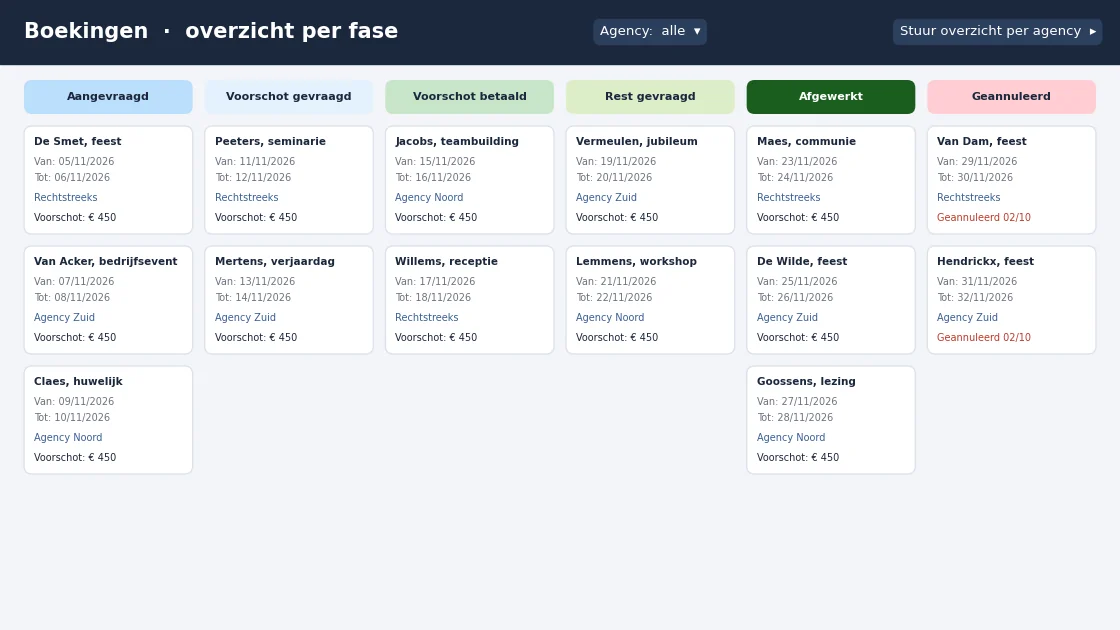
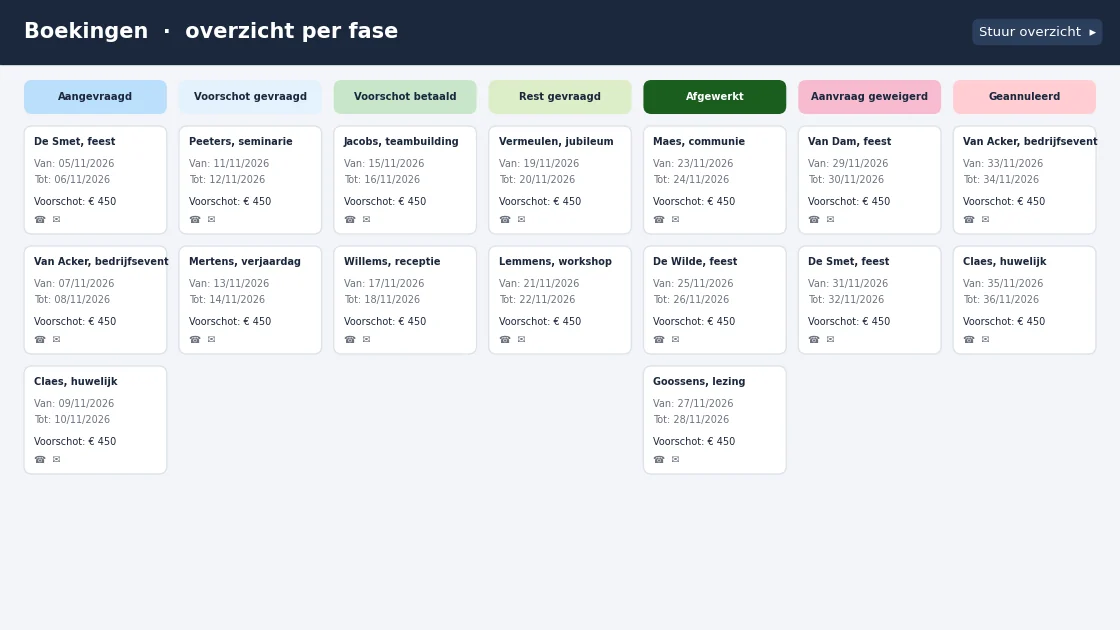
Add files via upload
finetuning

diff --git a/boekingssysteem-app.html b/boekingssysteem-app.html
@@ -175,7 +175,7 @@
 <section class="alt">
   <div class="inner">
     <h2>Wat de app doet</h2>
-    <p>Eén kalender waarin elke boeking een fase heeft: aangevraagd, voorschot gevraagd, voorschot betaald, rest gevraagd, afgewerkt, geweigerd, geannuleerd. Vanuit de boeking zelf maakt u de voorschot- en eindfactuur, en de app houdt bij wat betaald is. Een statusbord toont alle boekingen per fase, ook de geannuleerde. De mails naar de klant vertrekken vanuit de app, en per agency kan een overzicht verstuurd worden van wie wanneer komt.</p>
+    <p>Eén kalender waarin elke boeking een fase heeft: aangevraagd, voorschot gevraagd, voorschot betaald, rest gevraagd, afgewerkt, aanvraag geweigerd, geannuleerd. Vanuit de boeking zelf maakt u de voorschot- en eindfactuur, en de app houdt bij wat betaald is. Een statusbord toont alle boekingen per fase, ook wat geweigerd werd (bijvoorbeeld omdat het volzet was) en wat de klant annuleerde. Annuleert iemand, dan staat in de kolom geweigerd wie die week ook wou komen, en die kan opnieuw gecontacteerd worden. De mails naar de klant vertrekken vanuit de app, en per agency kan een overzicht verstuurd worden van wie wanneer komt.</p>
     <figure class="shot"><img src="/img/cases/boekingen-voor.webp" alt="Statusbord met alle boekingen per fase, van aanvraag tot afgewerkt" loading="lazy"><figcaption>Statusbord met alle boekingen per fase, van aanvraag tot afgewerkt (nagebouwd met fictieve gegevens)</figcaption></figure>
     <figure class="shot"><img src="/img/cases/boekingen-na.webp" alt="Boeking met voorschot- en eindfactuur en voorbeeld van de factuur" loading="lazy"><figcaption>Boeking met voorschot- en eindfactuur en voorbeeld van de factuur (nagebouwd met fictieve gegevens)</figcaption></figure>
     <div class="grid">
@@ -183,7 +183,7 @@
       <div class="card"><h3>Boeking met historiek</h3><p>Klant, periode, bedrag, voorschot, opmerkingen, en alles wat er al mee gebeurde. Eén scherm per boeking.</p></div>
       <div class="card"><h3>Facturen vanuit de boeking</h3><p>Voorschot- en eindfactuur, met uw layout, direct uit de boeking. Betaald of niet staat ernaast.</p></div>
       <div class="card"><h3>Mails en overzicht per agency</h3><p>Bevestiging, voorschotvraag, welkomstmail: vanuit de app, met het juiste adres. En per agency een overzicht van wie wanneer komt, met één klik verstuurd.</p></div>
-      <div class="card"><h3>Statusbord</h3><p>Alle boekingen in kolommen per fase, van aanvraag tot afgewerkt, en ook wat geannuleerd werd. In één oogopslag zie je waar iets blijft hangen.</p></div>
+      <div class="card"><h3>Statusbord</h3><p>Alle boekingen in kolommen per fase, van aanvraag tot afgewerkt. Apart: aanvragen die geweigerd werden (volzet) en boekingen die de klant annuleerde. Valt er een plek vrij, dan staat de reservelijst al klaar.</p></div>
       <div class="card"><h3>Overzicht voor de boekhouding</h3><p>Alle facturen en creditnota's in één lijst, exporteerbaar naar Excel voor uw boekhouder.</p></div>
     </div>
   </div>

diff --git a/index.html b/index.html
@@ -319,7 +319,7 @@
 
   /* CONTACT */
   #contact { background: var(--c50); }
-  .contact-grid { display: grid; grid-template-columns: 1fr 1fr; gap: 5rem; align-items: start; }
+  .contact-grid { display: grid; grid-template-columns: 1fr 1fr; gap: 5rem; align-items: center; }
   .contact-info h2 { font-weight: 600; font-size: clamp(1.8rem, 2.5vw, 2.4rem); letter-spacing: -0.025em; color: var(--text); margin-bottom: 1rem; line-height: 1.15; }
   .contact-info p { color: var(--muted); line-height: 1.72; margin-bottom: 2rem; font-weight: 300; }
   .contact-items { display: flex; flex-direction: column; gap: 1rem; }
@@ -331,7 +331,7 @@
   .c-text span { font-size: 0.79rem; color: var(--muted); }
   .form-card { background: var(--white); border: 1px solid var(--border); border-radius: var(--radius); padding: 2.2rem; box-shadow: 0 4px 28px rgba(27,40,61,0.06); }
   .form-group { margin-bottom: 1.1rem; }
-  .mail-card h3 { font-size: 1.15rem; font-weight: 700; color: var(--c900); margin-bottom: 0.6rem; }
+  .mail-card h3 { font-size: 1.15rem; font-weight: 700; color: var(--c900); margin-bottom: 1rem; }
   .mail-card p { font-size: 0.95rem; color: var(--muted); line-height: 1.65; margin-bottom: 1.2rem; }
   .mail-card .btn-submit { display: inline-block; text-decoration: none; text-align: center; }
   .mail-fallback { margin-top: 1rem; font-size: 0.88rem; }
@@ -604,7 +604,7 @@
         </div>
         <div class="case-block">
           <div class="case-label">Oplossing</div>
-          <p>&Eacute;&eacute;n kalender waarin <strong>elke boeking haar fase heeft</strong>, van aanvraag tot afgewerkt. Voorschot- en eindfactuur vertrekken vanuit de boeking zelf.</p>
+          <p>&Eacute;&eacute;n kalender waarin <strong>elke boeking haar fase heeft</strong>, van aanvraag tot afgewerkt, geweigerd of geannuleerd. Voorschot- en eindfactuur vertrekken vanuit de boeking zelf.</p>
         </div>
         <div class="case-result-row">Geen dubbele boekingen meer, en elke boeking en factuur in &eacute;&eacute;n oogopslag</div>
         <p class="case-more"><a href="/boekingssysteem-app.html">Lees de volledige case &rarr;</a></p>
@@ -864,9 +864,8 @@
     </div>
     <div class="form-card mail-card">
       <h3>Mail me in één klik</h3>
-      <p>Uw mailprogramma opent met het onderwerp en drie vragen als houvast. Opent er niets, gebruik dan het adres hiernaast.</p>
-      <a href="#" id="mailBtn" class="btn-submit">Open een mail naar Flow4Q &rarr;</a>
-      <ul class="mail-tips" style="margin-top:1.2rem;padding-top:1rem">
+            <a href="#" id="mailBtn" class="btn-submit">Open een mail naar Flow4Q &rarr;</a>
+      <ul class="mail-tips" style="margin-top:1rem;padding-top:0.9rem">
         <li>Wat loopt er vandaag mis, en wie heeft er last van?</li>
         <li>Waar zit de info nu: Excel, mails, papier, hoofden?</li>
         <li>Wanneer past een gesprek van maximaal een uur?</li>
